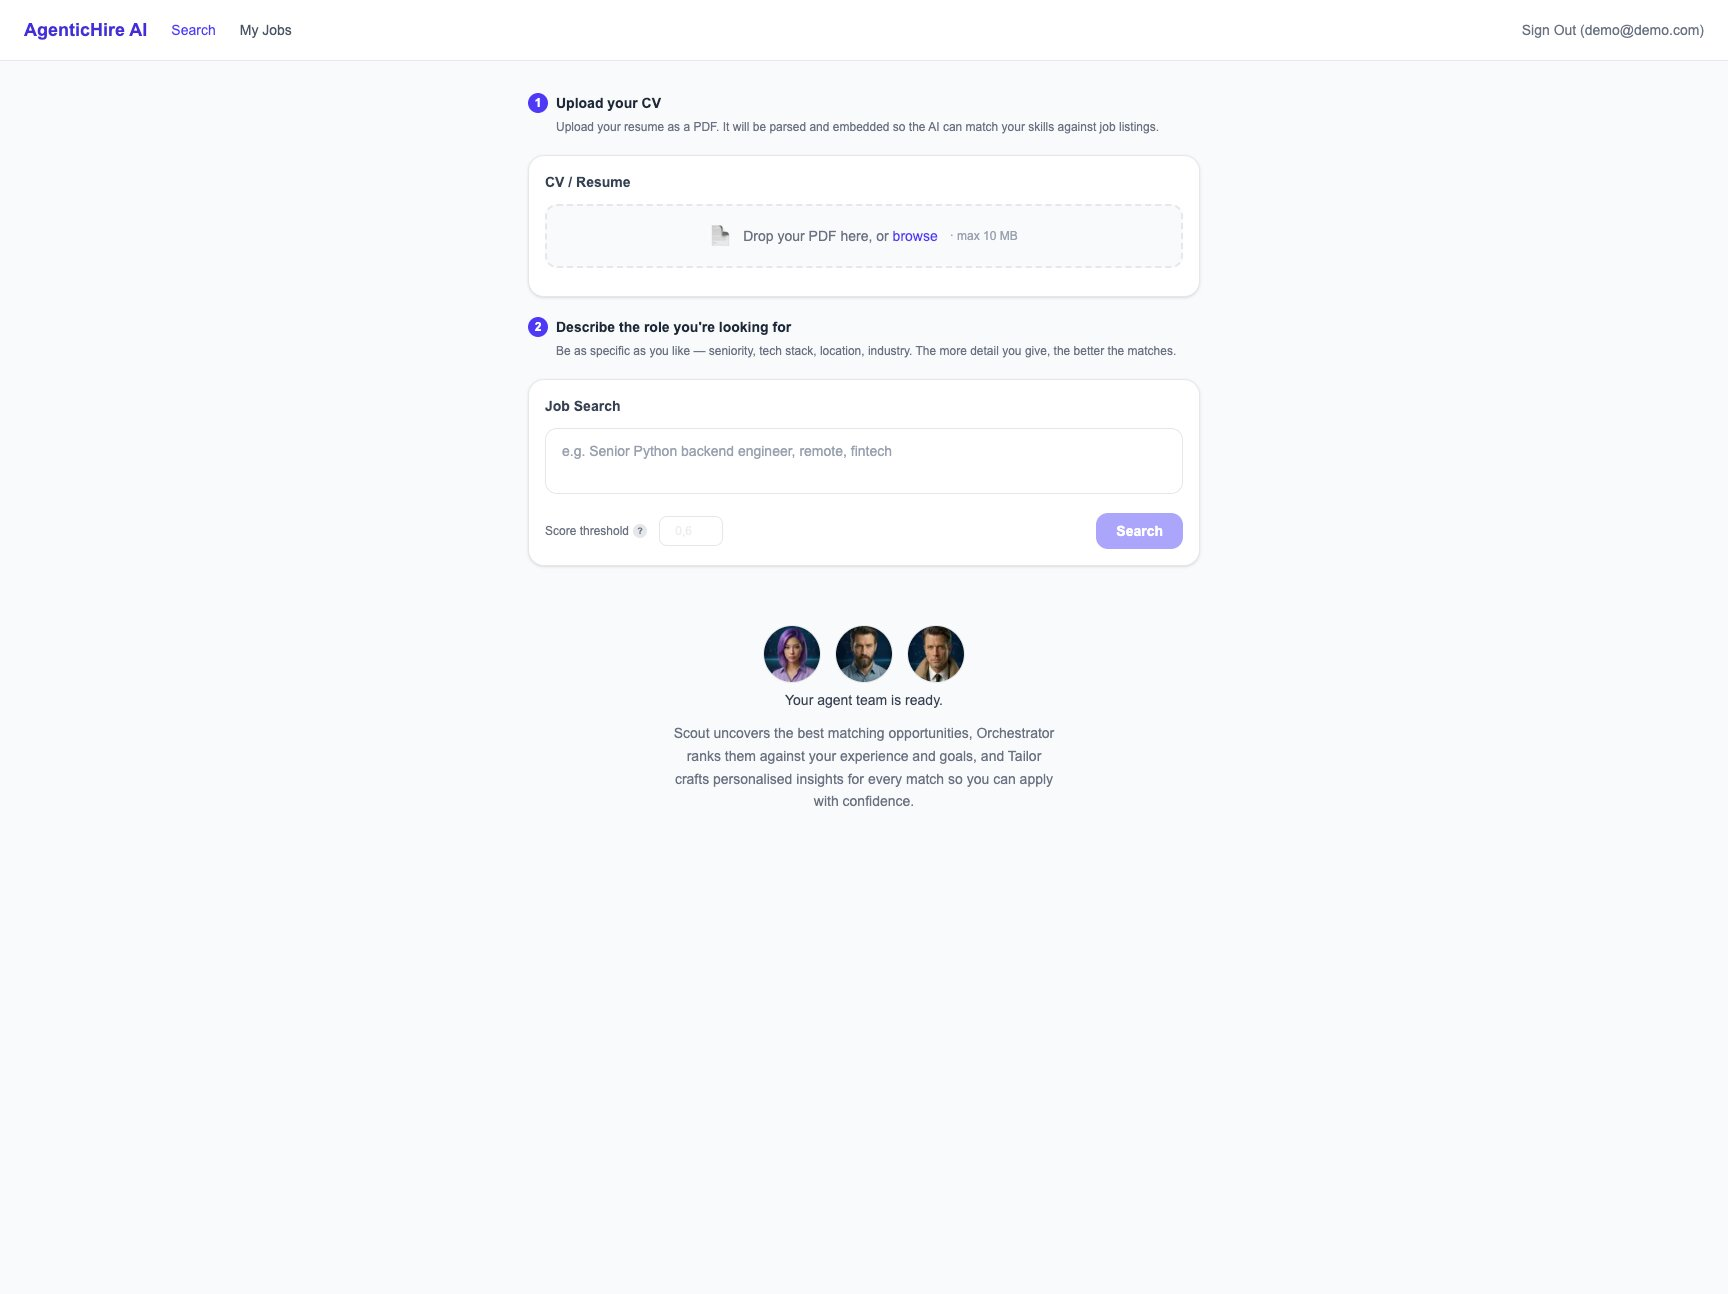
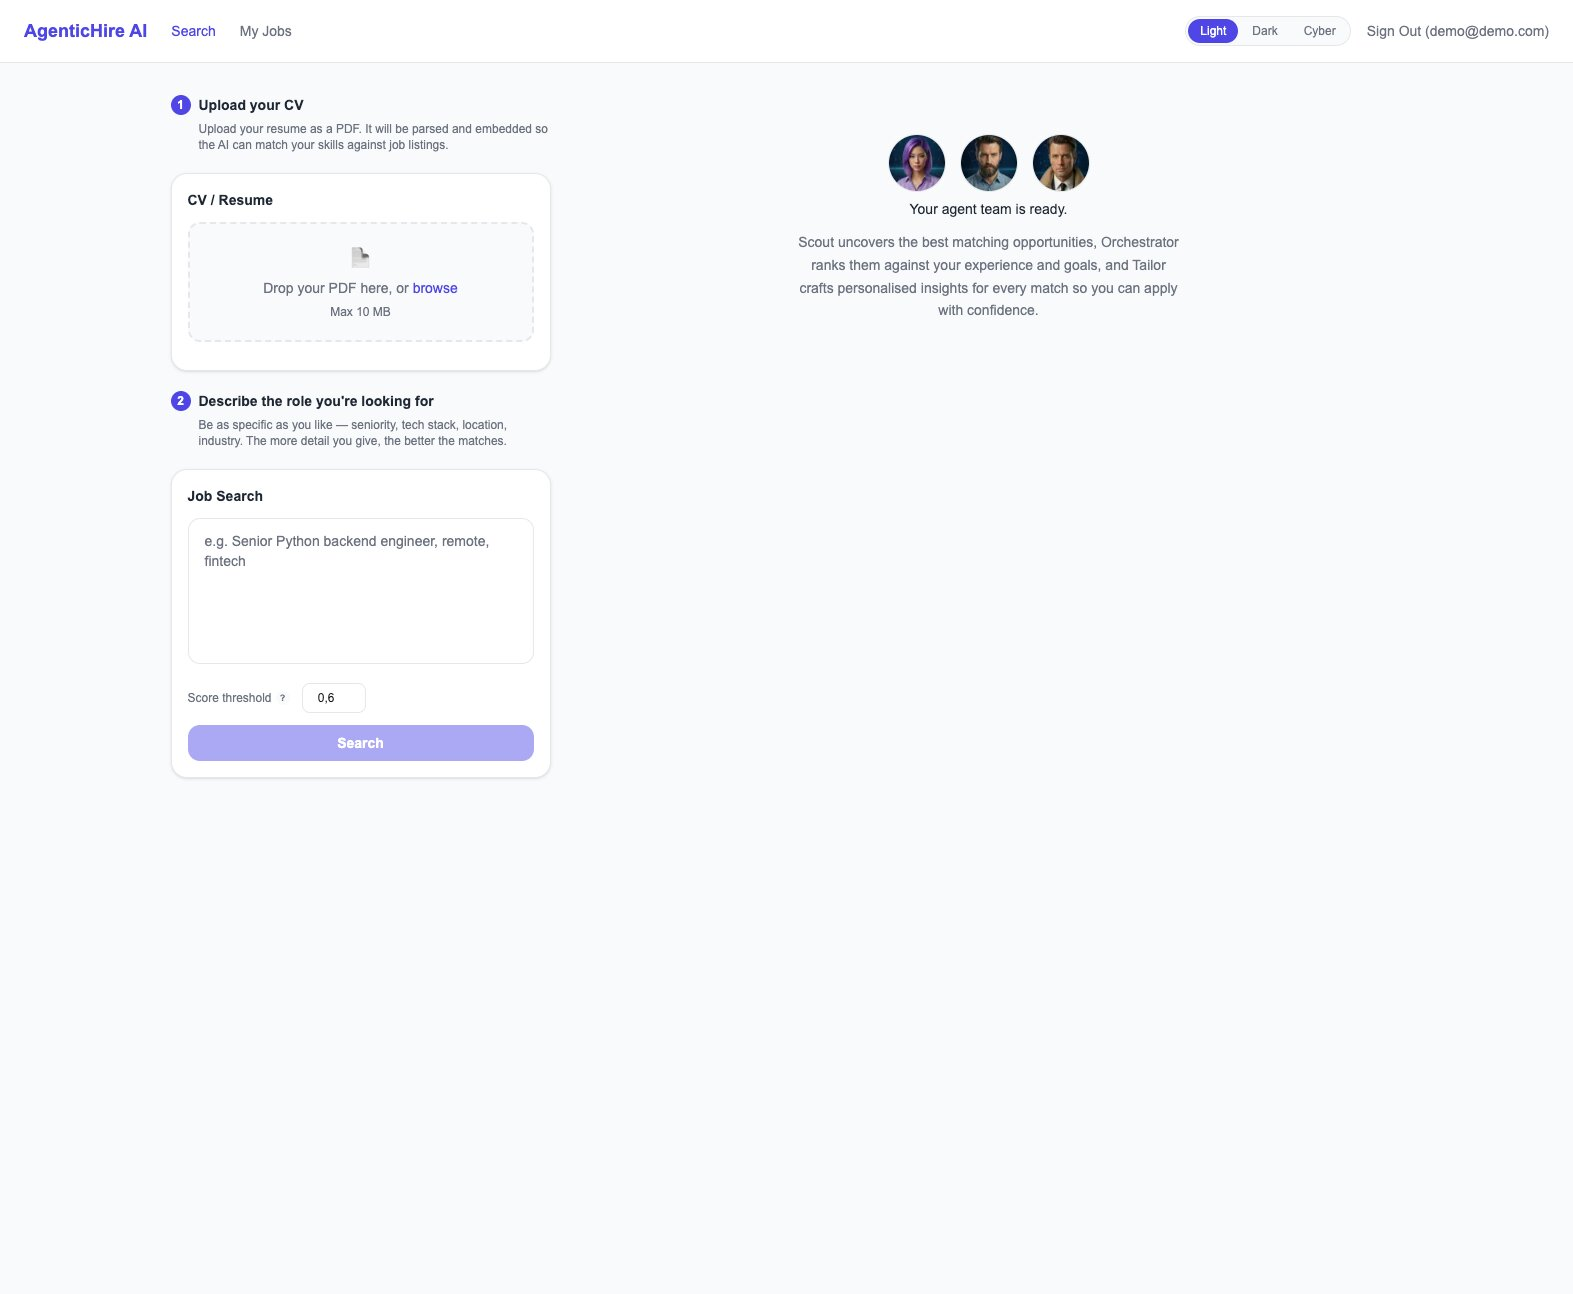
feat(doc): readme adjustments

diff --git a/README.md b/README.md
@@ -9,22 +9,26 @@ An AI-powered agent system that autonomously searches, validates, evaluates, and
 <table>
   <tr>
     <td align="center">
-      <img src="data/preview/prev_main.jpg" width="420" alt="Dashboard — CV upload and workflow controls" /><br/>
-      <em>Dashboard — CV upload and workflow controls</em>
+      <img src="data/preview/prev_main.jpg" width="420" alt="Dashboard — CV upload and job search sidebar, agent team ready to start" /><br/>
+      <em>Dashboard — CV upload, search criteria, and the agent team ready to go</em>
     </td>
     <td align="center">
-      <img src="data/preview/prev_search.jpg" width="420" alt="Search — job criteria and score threshold configuration" /><br/>
-      <em>Search — job criteria and score threshold</em>
+      <img src="data/preview/prev_my_jobs.jpg" width="420" alt="Job history — discovered jobs with match scores and per-job actions" /><br/>
+      <em>Job history — match scores and per-job actions</em>
+    </td>
+  </tr>
+</table>
+<table>
+  <tr>
+    <td align="center">
+      <img src="data/preview/prev_results_light.jpg" width="260" alt="Completed agent workflow with locked criteria, rescout loop, and shortlisted matches — Light theme" />
+      <img src="data/preview/prev_results_dark.jpg" width="260" alt="Completed agent workflow with locked criteria, rescout loop, and shortlisted matches — Dark theme" />
+      <img src="data/preview/prev_results_cyber.jpg" width="260" alt="Completed agent workflow with locked criteria, rescout loop, and shortlisted matches — Cyberpunk theme" />
     </td>
   </tr>
   <tr>
-    <td align="center">
-      <img src="data/preview/prev_results.jpg" width="420" alt="Results — real-time agent workflow with streaming SSE tiles" /><br/>
-      <em>Results — real-time agent workflow streaming</em>
-    </td>
-    <td align="center">
-      <img src="data/preview/prev_my_jobs.jpg" width="420" alt="Job history — match scores and per-job actions" /><br/>
-      <em>Job history — match scores and per-job actions</em>
+    <td colspan="2" align="center">
+      <em>Live agent workflow, criteria recap, and shortlisted matches — shown in different themes</em>
     </td>
   </tr>
 </table>
@@ -76,7 +80,10 @@ Generates a concise final evaluation per shortlisted job using orchestrator reas
 Full-featured web interface with:
 - JWT-based authentication (sign up, login, sign out)
 - CV upload with persistence across sessions
-- Real-time agent workflow with streaming SSE tiles; results restored on navigation
+- Sidebar + real-time agent activity feed layout, with streaming SSE tiles; results restored on navigation
+- A "Criteria locked" recap summarizing the CV, search criteria, and score threshold once a search starts
+- CV upload, search criteria, and score threshold lock while a workflow is running
+- Light, Dark, and Cyberpunk themes, switchable from the nav bar and persisted per session
 - Configurable score threshold per search
 - Job history page showing match scores from DB, with per-job delete and clear-all
 - Clear button to reset the search conversation (active only when no workflow is running)
@@ -190,7 +197,9 @@ agentic-hire-ai/
 │   │   ├── login/              # Auth pages
 │   │   ├── signup/
 │   │   └── api/                # Proxy route handlers
-│   ├── components/             # Shared UI components
+│   ├── context/                # ThemeProvider (Light/Dark/Cyberpunk), WorkflowStateProvider
+│   ├── lib/                    # agent-config, workflow-types, score-badge, api helpers
+│   ├── components/             # Shared UI components (NavLinks, ThemeToggle, LogoutButton)
 │   ├── hooks/                  # useWorkflowStream, useCvUpload
 │   ├── Dockerfile
 │   └── docker-entrypoint.sh
